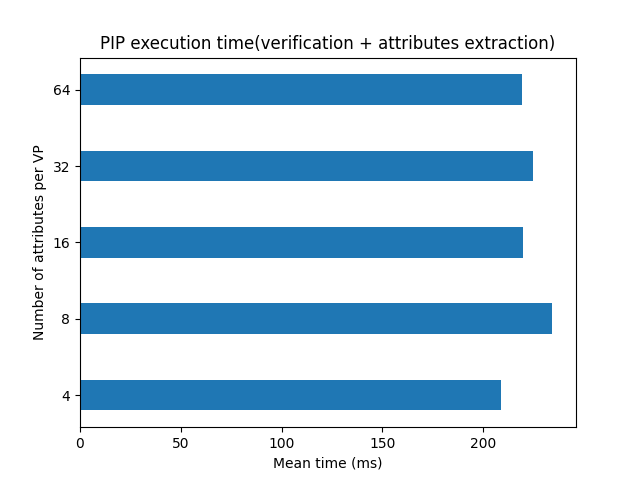
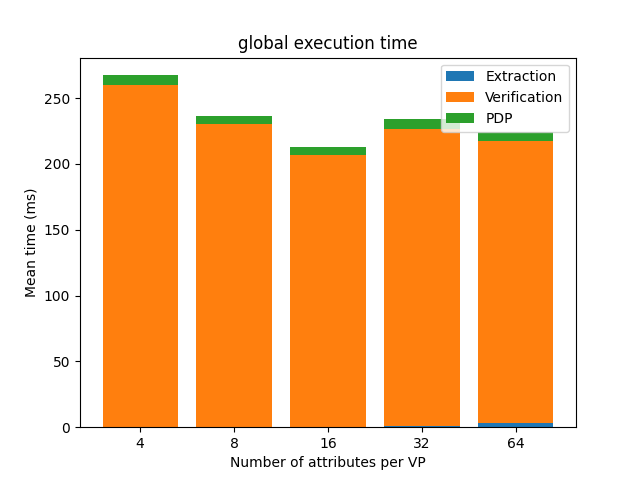
update artillery tests

diff --git a/src/controllers/api.ts b/src/controllers/api.ts
@@ -36,36 +36,47 @@ function clearData(fileName:string){
 
 export const loadApiEndpoints = (app: Application): void => {
 
-    clearData("measurements/pip.json");
     clearData("measurements/pdp.json");
+    clearData("measurements/pip-verification.json");
+    clearData("measurements/pip-extraction.json");
+    clearData("measurements/global.json");
 
     app.post("/send", async (req: Request, res: Response) => {
+        const begin0 = Date.now();
+
         res.header("Access-Control-Allow-Origin", "*");
         const vp: any = req.body.vp; // assuming any type for now
         const resource: string = req.body.resource;
-        console.log("Resource: " + resource);
+
         if (!resources[resource]) {
             return res.status(400).send("Invalid resource");
         }
-        const begin = Date.now();
+
+        let begin = Date.now();
         const verified = await verifyPresentation(vp);
         if (!verified) {
             console.log("VP not verified");
             return res.status(400).send("Invalid VP");
         }
+        let end = Date.now();
+        let time = end - begin;
+        updateData(time, "measurements/pip-verification.json");
+
+        begin = Date.now();
         const request = buildRequest(resource, vp);
-        const end = Date.now();
-        const time = end - begin;
-        console.log("PIP executed in " + time + "ms");
-        updateData(time, "measurements/pip.json");
+        end = Date.now();
+        time = end - begin;
+        updateData(time, "measurements/pip-extraction.json");
 
-        const begin2 = Date.now();
+        begin = Date.now();
         const response = await axios.post('http://localhost:8080/evaluate', request, { headers: { 'Content-Type': 'application/json' } });
-        const end2 = Date.now();
-        const time2 = end2 - begin2;
-        console.log("PDP executed in " + time2 + "ms");
-        updateData(time2, "measurements/pdp.json");
-
+        end = Date.now();
+        time = end - begin;
+        updateData(time, "measurements/pdp.json");
+        const end0 = Date.now();
+        const time0 = end0 - begin0;
+        console.log("Time: " + time0 + "ms");
+        updateData(time0, "measurements/global.json");
         return res.status(200).send({ message: "VP verified", authorized: response.data });
     });
 

diff --git a/plot.py b/plot.py
@@ -1,38 +1,51 @@
 import json
 import matplotlib.pyplot as plt
-labels_PIP = []
-values_PIP = []
-label_PDP = []
-values_PDP = []
+import numpy as np
+t = []
+t.append(2)
+t.append(3)
+t.append(4)
+print(t)
+mean_extraction_time = []
+mean_verification_time = []
+mean_pdp_time = []
 files = [4, 8, 16, 32, 64]
+
 for file in files:
-    string_file = 'data/measurements/{}-pip.json'.format(file)
+
+    string_file = 'data/measurements/pip-extraction-{}.json'.format(file)
+    print(string_file)
+
     with open(string_file) as f:
         data = json.load(f)
     measurements = data['measurements']
-    mean = sum(measurements) / len(measurements)
-    labels_PIP.append(str(file))
-    values_PIP.append(mean)
+    time= sum(measurements) / len(measurements)
+    mean_extraction_time.append(time)
 
-    string_file = 'data/measurements/{}-pdp.json'.format(file)
+    string_file = 'data/measurements/pip-verification-{}.json'.format(file)
     with open(string_file) as f:
         data = json.load(f)
     measurements = data['measurements']
-    mean = sum(measurements) / len(measurements)
-    label_PDP.append(str(file))
-    values_PDP.append(mean)
+    time = sum(measurements) / len(measurements)
+    mean_verification_time.append(time)
 
+    string_file = 'data/measurements/pdp-{}.json'.format(file)
+    with open(string_file) as f:
+        data = json.load(f)
+    measurements = data['measurements']
+    time = sum(measurements) / len(measurements)
+    mean_pdp_time.append(time)
 
-plt.barh(labels_PIP, values_PIP, height=0.4)
-plt.xlabel('Mean time (ms)')
-plt.ylabel('Number of attributes per VP')
-plt.title('PIP execution time(verification + attributes extraction)')
+labels = ['4', '8', '16', '32', '64']
+x = np.arange(len(labels))
+plt.bar(x, mean_extraction_time, label='Extraction')
+plt.bar(x, mean_verification_time, bottom=mean_extraction_time, label='Verification')
+plt.bar(x, mean_pdp_time, bottom=np.array(mean_extraction_time)+np.array(mean_verification_time), label='PDP')
+
+plt.xlabel('Number of attributes per VP')
+plt.ylabel('Mean time (ms)')
+plt.title('global execution time')
+plt.xticks(x, labels)
+plt.legend()
+
 plt.savefig('PIP.png')
-
-plt.clf()
-plt.barh(label_PDP, values_PDP, height=0.4)
-plt.xlabel('Mean time (ms)')
-plt.ylabel('Number of attributes per Policy')
-plt.title('PDP execution time')
-plt.savefig('PDP.png')
-
